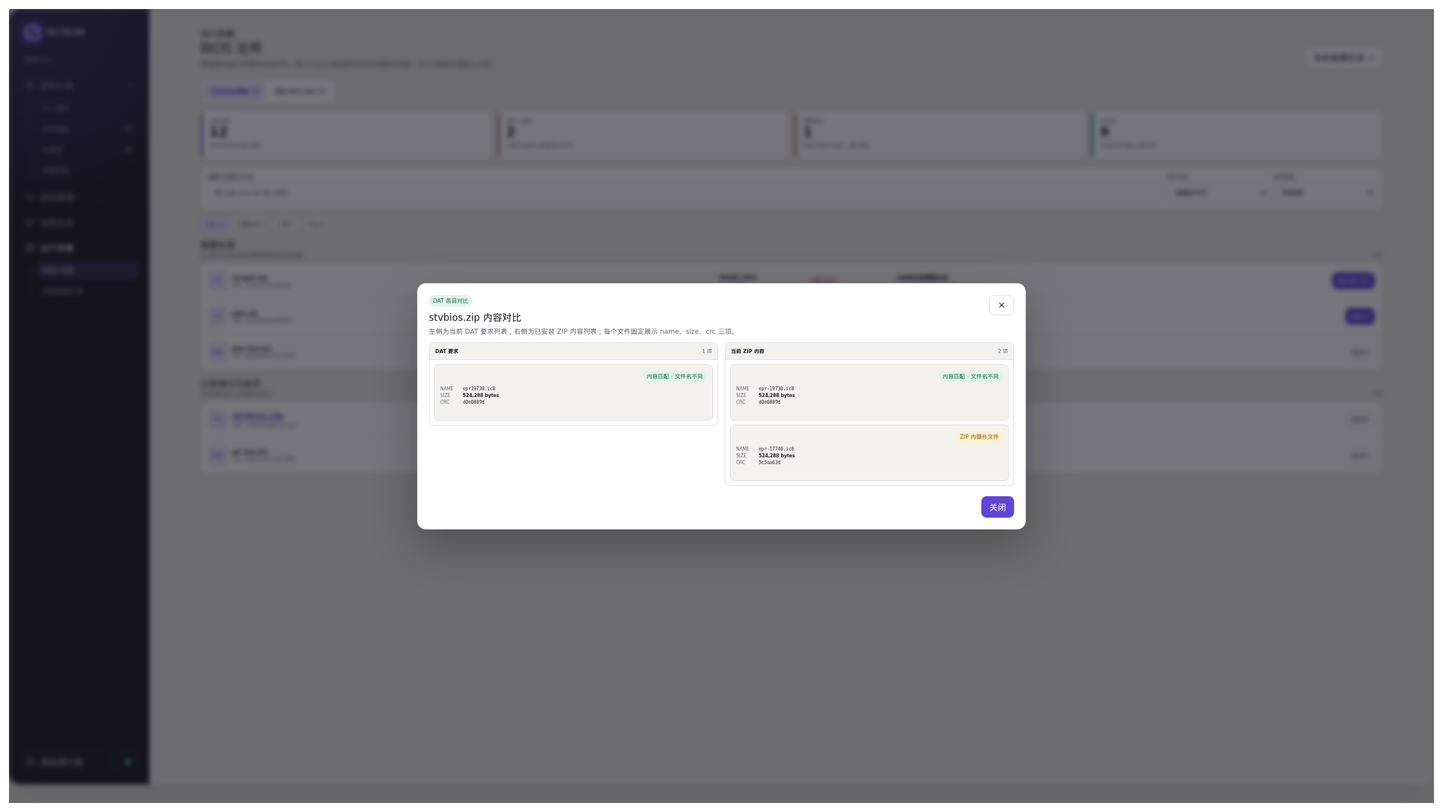
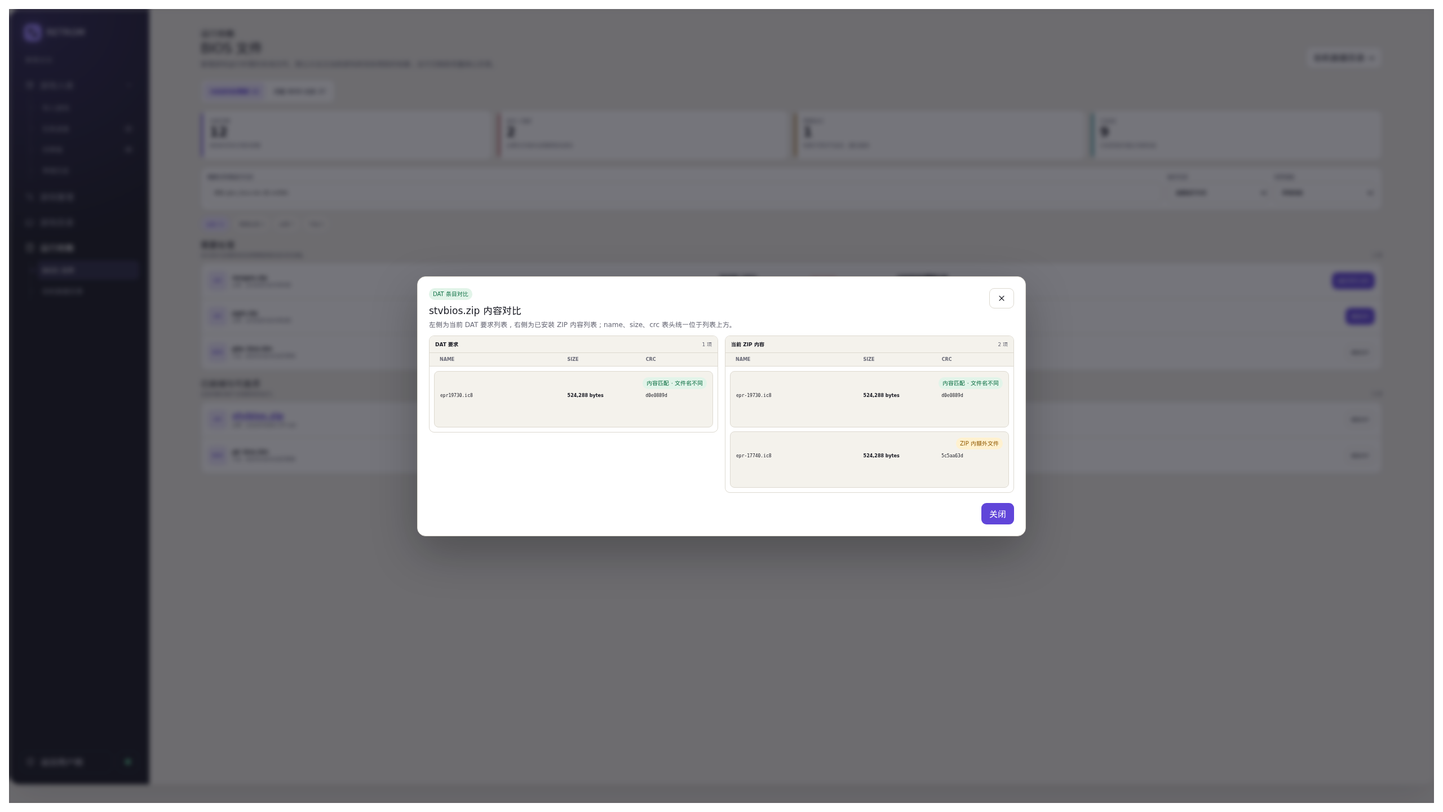
fix: place BIOS comparison headers above rows

diff --git a/docs/design/retrom-ui-review.html b/docs/design/retrom-ui-review.html
@@ -1161,12 +1161,13 @@
     #retrom-ui-review .rt-bios-entry-column { min-width: 0; overflow: hidden; border: 1px solid var(--retrom-line); border-radius: 9px; background: var(--retrom-panel); }
     #retrom-ui-review .rt-bios-entry-column &gt; header { position: sticky; top: 0; z-index: 1; padding: 9px 10px; display: flex; justify-content: space-between; border-bottom: 1px solid var(--retrom-line); background: var(--retrom-panel-raised); font-size: 9px; }
     #retrom-ui-review .rt-bios-entry-column &gt; header span { color: var(--retrom-muted); }
+    #retrom-ui-review .rt-bios-entry-field-head, #retrom-ui-review .rt-bios-entry-facts { grid-template-columns: minmax(0, 1.5fr) minmax(74px, .9fr) minmax(64px, .75fr); }
+    #retrom-ui-review .rt-bios-entry-field-head { margin: 0; padding: 7px 18px; display: grid; gap: 8px; color: var(--retrom-muted); border-bottom: 1px solid var(--retrom-line); background: var(--retrom-panel-raised); list-style: none; font-size: 8px; font-weight: 750; text-transform: uppercase; }
     #retrom-ui-review .rt-bios-entry-list { margin: 0; padding: 8px; display: grid; gap: 7px; list-style: none; }
     #retrom-ui-review .rt-bios-entry-card { min-height: 100px; padding: 10px; display: grid; align-content: start; gap: 7px; border: 1px solid var(--retrom-line); border-radius: 8px; background: var(--retrom-panel-raised); }
     #retrom-ui-review .rt-bios-entry-card &gt; .rt-badge { justify-self: end; }
-    #retrom-ui-review .rt-bios-entry-facts { margin: 0; padding: 0; display: grid; gap: 3px; list-style: none; font-size: 8px; }
-    #retrom-ui-review .rt-bios-entry-facts li { min-width: 0; display: grid; grid-template-columns: 34px minmax(0, 1fr); gap: 6px; }
-    #retrom-ui-review .rt-bios-entry-facts li &gt; span { color: var(--retrom-muted); text-transform: uppercase; }
+    #retrom-ui-review .rt-bios-entry-facts { margin: 0; padding: 0; display: grid; gap: 8px; list-style: none; font-size: 8px; }
+    #retrom-ui-review .rt-bios-entry-facts li { min-width: 0; }
     #retrom-ui-review .rt-bios-entry-facts code { overflow-wrap: anywhere; }
     #retrom-ui-review .rt-runtime-compare { display: grid; grid-template-columns: 1fr 26px 1fr; align-items: center; gap: 7px; }
     #retrom-ui-review .rt-runtime-compare article { padding: 10px; border: 1px solid var(--retrom-line); border-radius: 9px; background: var(--retrom-panel-raised); }
@@ -1931,7 +1932,7 @@
 
   &lt;div class=&quot;rt-dialog-backdrop rt-player-exit-backdrop&quot; data-player-exit-dialog hidden&gt;&lt;section class=&quot;rt-dialog rt-player-exit-dialog&quot; role=&quot;alertdialog&quot; aria-modal=&quot;true&quot; aria-labelledby=&quot;rt-player-exit-title&quot;&gt;&lt;div class=&quot;rt-dialog-head&quot;&gt;&lt;span class=&quot;rt-dialog-mark&quot; aria-hidden=&quot;true&quot;&gt;!&lt;/span&gt;&lt;div&gt;&lt;h2 id=&quot;rt-player-exit-title&quot;&gt;退出游戏？&lt;/h2&gt;&lt;p class=&quot;rt-dialog-copy&quot;&gt;游戏进度已同步，可以安全退出。&lt;/p&gt;&lt;/div&gt;&lt;/div&gt;&lt;div class=&quot;rt-dialog-impact&quot;&gt;退出时会刷新持久进度、结束本次游玩记录，并返回启动游戏前的页面。&lt;/div&gt;&lt;div class=&quot;rt-dialog-actions&quot;&gt;&lt;button type=&quot;button&quot; class=&quot;rt-button&quot; data-cancel-player-exit&gt;取消&lt;/button&gt;&lt;button type=&quot;button&quot; class=&quot;rt-button rt-button-danger&quot; data-confirm-player-exit&gt;退出游戏&lt;/button&gt;&lt;/div&gt;&lt;/section&gt;&lt;/div&gt;
 
-  &lt;div class=&quot;rt-dialog-backdrop&quot; data-bios-entries hidden&gt;&lt;section class=&quot;rt-dialog rt-bios-entry-dialog&quot; role=&quot;alertdialog&quot; aria-modal=&quot;true&quot; aria-labelledby=&quot;rt-bios-entry-title&quot;&gt;&lt;div class=&quot;rt-panel-heading&quot;&gt;&lt;div&gt;&lt;span class=&quot;rt-badge rt-badge-green&quot;&gt;DAT 条目对比&lt;/span&gt;&lt;h2 id=&quot;rt-bios-entry-title&quot; style=&quot;margin-top:7px&quot;&gt;stvbios.zip 内容对比&lt;/h2&gt;&lt;p class=&quot;rt-dialog-copy&quot;&gt;左侧为当前 DAT 要求列表，右侧为已安装 ZIP 内容列表；每个文件固定展示 name、size、crc 三项。&lt;/p&gt;&lt;/div&gt;&lt;button type=&quot;button&quot; class=&quot;rt-button&quot; data-close-bios-entries aria-label=&quot;关闭&quot;&gt;&lt;i data-lucide=&quot;x&quot; aria-hidden=&quot;true&quot;&gt;&lt;/i&gt;&lt;/button&gt;&lt;/div&gt;&lt;div class=&quot;rt-bios-entry-columns&quot;&gt;&lt;section class=&quot;rt-bios-entry-column&quot;&gt;&lt;header&gt;&lt;strong&gt;DAT 要求&lt;/strong&gt;&lt;span&gt;1 项&lt;/span&gt;&lt;/header&gt;&lt;ul class=&quot;rt-bios-entry-list&quot;&gt;&lt;li class=&quot;rt-bios-entry-card&quot;&gt;&lt;span class=&quot;rt-badge rt-badge-green&quot;&gt;内容匹配 · 文件名不同&lt;/span&gt;&lt;ul class=&quot;rt-bios-entry-facts&quot;&gt;&lt;li&gt;&lt;span&gt;name&lt;/span&gt;&lt;code&gt;epr19730.ic8&lt;/code&gt;&lt;/li&gt;&lt;li&gt;&lt;span&gt;size&lt;/span&gt;&lt;strong&gt;524,288 bytes&lt;/strong&gt;&lt;/li&gt;&lt;li&gt;&lt;span&gt;crc&lt;/span&gt;&lt;code&gt;d0e0889d&lt;/code&gt;&lt;/li&gt;&lt;/ul&gt;&lt;/li&gt;&lt;/ul&gt;&lt;/section&gt;&lt;section class=&quot;rt-bios-entry-column&quot;&gt;&lt;header&gt;&lt;strong&gt;当前 ZIP 内容&lt;/strong&gt;&lt;span&gt;2 项&lt;/span&gt;&lt;/header&gt;&lt;ul class=&quot;rt-bios-entry-list&quot;&gt;&lt;li class=&quot;rt-bios-entry-card&quot;&gt;&lt;span class=&quot;rt-badge rt-badge-green&quot;&gt;内容匹配 · 文件名不同&lt;/span&gt;&lt;ul class=&quot;rt-bios-entry-facts&quot;&gt;&lt;li&gt;&lt;span&gt;name&lt;/span&gt;&lt;code&gt;epr-19730.ic8&lt;/code&gt;&lt;/li&gt;&lt;li&gt;&lt;span&gt;size&lt;/span&gt;&lt;strong&gt;524,288 bytes&lt;/strong&gt;&lt;/li&gt;&lt;li&gt;&lt;span&gt;crc&lt;/span&gt;&lt;code&gt;d0e0889d&lt;/code&gt;&lt;/li&gt;&lt;/ul&gt;&lt;/li&gt;&lt;li class=&quot;rt-bios-entry-card&quot;&gt;&lt;span class=&quot;rt-badge rt-badge-amber&quot;&gt;ZIP 内额外文件&lt;/span&gt;&lt;ul class=&quot;rt-bios-entry-facts&quot;&gt;&lt;li&gt;&lt;span&gt;name&lt;/span&gt;&lt;code&gt;epr-17740.ic8&lt;/code&gt;&lt;/li&gt;&lt;li&gt;&lt;span&gt;size&lt;/span&gt;&lt;strong&gt;524,288 bytes&lt;/strong&gt;&lt;/li&gt;&lt;li&gt;&lt;span&gt;crc&lt;/span&gt;&lt;code&gt;5c5aa63d&lt;/code&gt;&lt;/li&gt;&lt;/ul&gt;&lt;/li&gt;&lt;/ul&gt;&lt;/section&gt;&lt;/div&gt;&lt;div class=&quot;rt-dialog-actions&quot;&gt;&lt;button type=&quot;button&quot; class=&quot;rt-button rt-button-primary&quot; data-close-bios-entries&gt;关闭&lt;/button&gt;&lt;/div&gt;&lt;/section&gt;&lt;/div&gt;
+  &lt;div class=&quot;rt-dialog-backdrop&quot; data-bios-entries hidden&gt;&lt;section class=&quot;rt-dialog rt-bios-entry-dialog&quot; role=&quot;alertdialog&quot; aria-modal=&quot;true&quot; aria-labelledby=&quot;rt-bios-entry-title&quot;&gt;&lt;div class=&quot;rt-panel-heading&quot;&gt;&lt;div&gt;&lt;span class=&quot;rt-badge rt-badge-green&quot;&gt;DAT 条目对比&lt;/span&gt;&lt;h2 id=&quot;rt-bios-entry-title&quot; style=&quot;margin-top:7px&quot;&gt;stvbios.zip 内容对比&lt;/h2&gt;&lt;p class=&quot;rt-dialog-copy&quot;&gt;左侧为当前 DAT 要求列表，右侧为已安装 ZIP 内容列表；name、size、crc 表头统一位于列表上方。&lt;/p&gt;&lt;/div&gt;&lt;button type=&quot;button&quot; class=&quot;rt-button&quot; data-close-bios-entries aria-label=&quot;关闭&quot;&gt;&lt;i data-lucide=&quot;x&quot; aria-hidden=&quot;true&quot;&gt;&lt;/i&gt;&lt;/button&gt;&lt;/div&gt;&lt;div class=&quot;rt-bios-entry-columns&quot;&gt;&lt;section class=&quot;rt-bios-entry-column&quot;&gt;&lt;header&gt;&lt;strong&gt;DAT 要求&lt;/strong&gt;&lt;span&gt;1 项&lt;/span&gt;&lt;/header&gt;&lt;ul class=&quot;rt-bios-entry-field-head&quot;&gt;&lt;li&gt;name&lt;/li&gt;&lt;li&gt;size&lt;/li&gt;&lt;li&gt;crc&lt;/li&gt;&lt;/ul&gt;&lt;ul class=&quot;rt-bios-entry-list&quot;&gt;&lt;li class=&quot;rt-bios-entry-card&quot;&gt;&lt;span class=&quot;rt-badge rt-badge-green&quot;&gt;内容匹配 · 文件名不同&lt;/span&gt;&lt;ul class=&quot;rt-bios-entry-facts&quot;&gt;&lt;li&gt;&lt;code&gt;epr19730.ic8&lt;/code&gt;&lt;/li&gt;&lt;li&gt;&lt;strong&gt;524,288 bytes&lt;/strong&gt;&lt;/li&gt;&lt;li&gt;&lt;code&gt;d0e0889d&lt;/code&gt;&lt;/li&gt;&lt;/ul&gt;&lt;/li&gt;&lt;/ul&gt;&lt;/section&gt;&lt;section class=&quot;rt-bios-entry-column&quot;&gt;&lt;header&gt;&lt;strong&gt;当前 ZIP 内容&lt;/strong&gt;&lt;span&gt;2 项&lt;/span&gt;&lt;/header&gt;&lt;ul class=&quot;rt-bios-entry-field-head&quot;&gt;&lt;li&gt;name&lt;/li&gt;&lt;li&gt;size&lt;/li&gt;&lt;li&gt;crc&lt;/li&gt;&lt;/ul&gt;&lt;ul class=&quot;rt-bios-entry-list&quot;&gt;&lt;li class=&quot;rt-bios-entry-card&quot;&gt;&lt;span class=&quot;rt-badge rt-badge-green&quot;&gt;内容匹配 · 文件名不同&lt;/span&gt;&lt;ul class=&quot;rt-bios-entry-facts&quot;&gt;&lt;li&gt;&lt;code&gt;epr-19730.ic8&lt;/code&gt;&lt;/li&gt;&lt;li&gt;&lt;strong&gt;524,288 bytes&lt;/strong&gt;&lt;/li&gt;&lt;li&gt;&lt;code&gt;d0e0889d&lt;/code&gt;&lt;/li&gt;&lt;/ul&gt;&lt;/li&gt;&lt;li class=&quot;rt-bios-entry-card&quot;&gt;&lt;span class=&quot;rt-badge rt-badge-amber&quot;&gt;ZIP 内额外文件&lt;/span&gt;&lt;ul class=&quot;rt-bios-entry-facts&quot;&gt;&lt;li&gt;&lt;code&gt;epr-17740.ic8&lt;/code&gt;&lt;/li&gt;&lt;li&gt;&lt;strong&gt;524,288 bytes&lt;/strong&gt;&lt;/li&gt;&lt;li&gt;&lt;code&gt;5c5aa63d&lt;/code&gt;&lt;/li&gt;&lt;/ul&gt;&lt;/li&gt;&lt;/ul&gt;&lt;/section&gt;&lt;/div&gt;&lt;div class=&quot;rt-dialog-actions&quot;&gt;&lt;button type=&quot;button&quot; class=&quot;rt-button rt-button-primary&quot; data-close-bios-entries&gt;关闭&lt;/button&gt;&lt;/div&gt;&lt;/section&gt;&lt;/div&gt;
 
   &lt;div class=&quot;rt-runtime-drawer-backdrop&quot; data-runtime-drawer-backdrop hidden&gt;&lt;/div&gt;
   &lt;aside class=&quot;rt-runtime-drawer&quot; data-runtime-drawer hidden&gt;&lt;header&gt;&lt;div&gt;&lt;span class=&quot;rt-badge rt-badge-purple&quot;&gt;新候选&lt;/span&gt;&lt;h2&gt;上传街机数据目录&lt;/h2&gt;&lt;p&gt;上传后先安全解析，再查看差异，最后才允许启用。&lt;/p&gt;&lt;/div&gt;&lt;button type=&quot;button&quot; class=&quot;rt-button&quot; data-close-runtime-drawer aria-label=&quot;关闭&quot;&gt;&lt;i data-lucide=&quot;x&quot; aria-hidden=&quot;true&quot;&gt;&lt;/i&gt;&lt;/button&gt;&lt;/header&gt;&lt;div class=&quot;rt-runtime-drawer-body&quot;&gt;&lt;label&gt;目标运行方式&lt;select class=&quot;rt-select&quot;&gt;&lt;option&gt;FinalBurn Neo · bundle 4.2.3&lt;/option&gt;&lt;option&gt;MAME 2003 · bundle 4.2.1&lt;/option&gt;&lt;option&gt;MAME 2003 Plus · bundle 4.2.3&lt;/option&gt;&lt;/select&gt;&lt;/label&gt;&lt;label&gt;DAT / XML 文件&lt;input class=&quot;rt-input&quot; placeholder=&quot;尚未选择文件&quot; readonly&gt;&lt;/label&gt;&lt;button type=&quot;button&quot; class=&quot;rt-button&quot;&gt;选择 DAT 或 XML 文件&lt;/button&gt;&lt;ol class=&quot;rt-runtime-upload-flow&quot;&gt;&lt;li&gt;&lt;span&gt;1&lt;/span&gt;&lt;strong&gt;上传&lt;/strong&gt;&lt;/li&gt;&lt;li&gt;&lt;span&gt;2&lt;/span&gt;&lt;strong&gt;解析&lt;/strong&gt;&lt;/li&gt;&lt;li&gt;&lt;span&gt;3&lt;/span&gt;&lt;strong&gt;查看差异&lt;/strong&gt;&lt;/li&gt;&lt;li&gt;&lt;span&gt;4&lt;/span&gt;&lt;strong&gt;启用&lt;/strong&gt;&lt;/li&gt;&lt;/ol&gt;&lt;/div&gt;&lt;footer&gt;&lt;button type=&quot;button&quot; class=&quot;rt-button&quot; data-close-runtime-drawer&gt;取消&lt;/button&gt;&lt;button type=&quot;button&quot; class=&quot;rt-button rt-button-primary&quot; disabled&gt;开始上传&lt;/button&gt;&lt;/footer&gt;&lt;/aside&gt;

diff --git a/docs/design/retrom-ui-review.fragment.html b/docs/design/retrom-ui-review.fragment.html
@@ -1138,12 +1138,13 @@
     #retrom-ui-review .rt-bios-entry-column { min-width: 0; overflow: hidden; border: 1px solid var(--retrom-line); border-radius: 9px; background: var(--retrom-panel); }
     #retrom-ui-review .rt-bios-entry-column > header { position: sticky; top: 0; z-index: 1; padding: 9px 10px; display: flex; justify-content: space-between; border-bottom: 1px solid var(--retrom-line); background: var(--retrom-panel-raised); font-size: 9px; }
     #retrom-ui-review .rt-bios-entry-column > header span { color: var(--retrom-muted); }
+    #retrom-ui-review .rt-bios-entry-field-head, #retrom-ui-review .rt-bios-entry-facts { grid-template-columns: minmax(0, 1.5fr) minmax(74px, .9fr) minmax(64px, .75fr); }
+    #retrom-ui-review .rt-bios-entry-field-head { margin: 0; padding: 7px 18px; display: grid; gap: 8px; color: var(--retrom-muted); border-bottom: 1px solid var(--retrom-line); background: var(--retrom-panel-raised); list-style: none; font-size: 8px; font-weight: 750; text-transform: uppercase; }
     #retrom-ui-review .rt-bios-entry-list { margin: 0; padding: 8px; display: grid; gap: 7px; list-style: none; }
     #retrom-ui-review .rt-bios-entry-card { min-height: 100px; padding: 10px; display: grid; align-content: start; gap: 7px; border: 1px solid var(--retrom-line); border-radius: 8px; background: var(--retrom-panel-raised); }
     #retrom-ui-review .rt-bios-entry-card > .rt-badge { justify-self: end; }
-    #retrom-ui-review .rt-bios-entry-facts { margin: 0; padding: 0; display: grid; gap: 3px; list-style: none; font-size: 8px; }
-    #retrom-ui-review .rt-bios-entry-facts li { min-width: 0; display: grid; grid-template-columns: 34px minmax(0, 1fr); gap: 6px; }
-    #retrom-ui-review .rt-bios-entry-facts li > span { color: var(--retrom-muted); text-transform: uppercase; }
+    #retrom-ui-review .rt-bios-entry-facts { margin: 0; padding: 0; display: grid; gap: 8px; list-style: none; font-size: 8px; }
+    #retrom-ui-review .rt-bios-entry-facts li { min-width: 0; }
     #retrom-ui-review .rt-bios-entry-facts code { overflow-wrap: anywhere; }
     #retrom-ui-review .rt-runtime-compare { display: grid; grid-template-columns: 1fr 26px 1fr; align-items: center; gap: 7px; }
     #retrom-ui-review .rt-runtime-compare article { padding: 10px; border: 1px solid var(--retrom-line); border-radius: 9px; background: var(--retrom-panel-raised); }
@@ -1908,7 +1909,7 @@
 
   <div class="rt-dialog-backdrop rt-player-exit-backdrop" data-player-exit-dialog hidden><section class="rt-dialog rt-player-exit-dialog" role="alertdialog" aria-modal="true" aria-labelledby="rt-player-exit-title"><div class="rt-dialog-head"><span class="rt-dialog-mark" aria-hidden="true">!</span><div><h2 id="rt-player-exit-title">退出游戏？</h2><p class="rt-dialog-copy">游戏进度已同步，可以安全退出。</p></div></div><div class="rt-dialog-impact">退出时会刷新持久进度、结束本次游玩记录，并返回启动游戏前的页面。</div><div class="rt-dialog-actions"><button type="button" class="rt-button" data-cancel-player-exit>取消</button><button type="button" class="rt-button rt-button-danger" data-confirm-player-exit>退出游戏</button></div></section></div>
 
-  <div class="rt-dialog-backdrop" data-bios-entries hidden><section class="rt-dialog rt-bios-entry-dialog" role="alertdialog" aria-modal="true" aria-labelledby="rt-bios-entry-title"><div class="rt-panel-heading"><div><span class="rt-badge rt-badge-green">DAT 条目对比</span><h2 id="rt-bios-entry-title" style="margin-top:7px">stvbios.zip 内容对比</h2><p class="rt-dialog-copy">左侧为当前 DAT 要求列表，右侧为已安装 ZIP 内容列表；每个文件固定展示 name、size、crc 三项。</p></div><button type="button" class="rt-button" data-close-bios-entries aria-label="关闭"><i data-lucide="x" aria-hidden="true"></i></button></div><div class="rt-bios-entry-columns"><section class="rt-bios-entry-column"><header><strong>DAT 要求</strong><span>1 项</span></header><ul class="rt-bios-entry-list"><li class="rt-bios-entry-card"><span class="rt-badge rt-badge-green">内容匹配 · 文件名不同</span><ul class="rt-bios-entry-facts"><li><span>name</span><code>epr19730.ic8</code></li><li><span>size</span><strong>524,288 bytes</strong></li><li><span>crc</span><code>d0e0889d</code></li></ul></li></ul></section><section class="rt-bios-entry-column"><header><strong>当前 ZIP 内容</strong><span>2 项</span></header><ul class="rt-bios-entry-list"><li class="rt-bios-entry-card"><span class="rt-badge rt-badge-green">内容匹配 · 文件名不同</span><ul class="rt-bios-entry-facts"><li><span>name</span><code>epr-19730.ic8</code></li><li><span>size</span><strong>524,288 bytes</strong></li><li><span>crc</span><code>d0e0889d</code></li></ul></li><li class="rt-bios-entry-card"><span class="rt-badge rt-badge-amber">ZIP 内额外文件</span><ul class="rt-bios-entry-facts"><li><span>name</span><code>epr-17740.ic8</code></li><li><span>size</span><strong>524,288 bytes</strong></li><li><span>crc</span><code>5c5aa63d</code></li></ul></li></ul></section></div><div class="rt-dialog-actions"><button type="button" class="rt-button rt-button-primary" data-close-bios-entries>关闭</button></div></section></div>
+  <div class="rt-dialog-backdrop" data-bios-entries hidden><section class="rt-dialog rt-bios-entry-dialog" role="alertdialog" aria-modal="true" aria-labelledby="rt-bios-entry-title"><div class="rt-panel-heading"><div><span class="rt-badge rt-badge-green">DAT 条目对比</span><h2 id="rt-bios-entry-title" style="margin-top:7px">stvbios.zip 内容对比</h2><p class="rt-dialog-copy">左侧为当前 DAT 要求列表，右侧为已安装 ZIP 内容列表；name、size、crc 表头统一位于列表上方。</p></div><button type="button" class="rt-button" data-close-bios-entries aria-label="关闭"><i data-lucide="x" aria-hidden="true"></i></button></div><div class="rt-bios-entry-columns"><section class="rt-bios-entry-column"><header><strong>DAT 要求</strong><span>1 项</span></header><ul class="rt-bios-entry-field-head"><li>name</li><li>size</li><li>crc</li></ul><ul class="rt-bios-entry-list"><li class="rt-bios-entry-card"><span class="rt-badge rt-badge-green">内容匹配 · 文件名不同</span><ul class="rt-bios-entry-facts"><li><code>epr19730.ic8</code></li><li><strong>524,288 bytes</strong></li><li><code>d0e0889d</code></li></ul></li></ul></section><section class="rt-bios-entry-column"><header><strong>当前 ZIP 内容</strong><span>2 项</span></header><ul class="rt-bios-entry-field-head"><li>name</li><li>size</li><li>crc</li></ul><ul class="rt-bios-entry-list"><li class="rt-bios-entry-card"><span class="rt-badge rt-badge-green">内容匹配 · 文件名不同</span><ul class="rt-bios-entry-facts"><li><code>epr-19730.ic8</code></li><li><strong>524,288 bytes</strong></li><li><code>d0e0889d</code></li></ul></li><li class="rt-bios-entry-card"><span class="rt-badge rt-badge-amber">ZIP 内额外文件</span><ul class="rt-bios-entry-facts"><li><code>epr-17740.ic8</code></li><li><strong>524,288 bytes</strong></li><li><code>5c5aa63d</code></li></ul></li></ul></section></div><div class="rt-dialog-actions"><button type="button" class="rt-button rt-button-primary" data-close-bios-entries>关闭</button></div></section></div>
 
   <div class="rt-runtime-drawer-backdrop" data-runtime-drawer-backdrop hidden></div>
   <aside class="rt-runtime-drawer" data-runtime-drawer hidden><header><div><span class="rt-badge rt-badge-purple">新候选</span><h2>上传街机数据目录</h2><p>上传后先安全解析，再查看差异，最后才允许启用。</p></div><button type="button" class="rt-button" data-close-runtime-drawer aria-label="关闭"><i data-lucide="x" aria-hidden="true"></i></button></header><div class="rt-runtime-drawer-body"><label>目标运行方式<select class="rt-select"><option>FinalBurn Neo · bundle 4.2.3</option><option>MAME 2003 · bundle 4.2.1</option><option>MAME 2003 Plus · bundle 4.2.3</option></select></label><label>DAT / XML 文件<input class="rt-input" placeholder="尚未选择文件" readonly></label><button type="button" class="rt-button">选择 DAT 或 XML 文件</button><ol class="rt-runtime-upload-flow"><li><span>1</span><strong>上传</strong></li><li><span>2</span><strong>解析</strong></li><li><span>3</span><strong>查看差异</strong></li><li><span>4</span><strong>启用</strong></li></ol></div><footer><button type="button" class="rt-button" data-close-runtime-drawer>取消</button><button type="button" class="rt-button rt-button-primary" disabled>开始上传</button></footer></aside>

diff --git a/web/app/globals.css b/web/app/globals.css
@@ -1329,14 +1329,15 @@ td select, td input:not([type="checkbox"]), td button { min-height: 42px; }
 .bios-entry-column > header { position: sticky; z-index: 1; top: 0; padding: 10px 12px; display: flex; align-items: center; justify-content: space-between; gap: 12px; border-bottom: 1px solid var(--line); background: var(--surface-raised); }
 .bios-entry-column > header strong { font-size: 12px; }
 .bios-entry-column > header span { color: var(--muted); font-size: 10px; }
+.bios-entry-field-head, .bios-entry-facts { grid-template-columns: minmax(0, 1.5fr) minmax(105px, .9fr) minmax(84px, .75fr); }
+.bios-entry-field-head { margin: 0; padding: 8px 20px; display: grid; gap: 12px; color: var(--muted); border-bottom: 1px solid var(--line); background: #fbfbfc; font-size: 10px; font-weight: 750; list-style: none; text-transform: uppercase; }
 .bios-entry-list { margin: 0; padding: 9px; display: grid; gap: 8px; list-style: none; }
 .bios-entry-card { min-width: 0; min-height: 112px; padding: 10px; display: grid; align-content: start; gap: 8px; border: 1px solid var(--line); border-radius: 9px; background: var(--surface-raised); }
 .bios-entry-card-head { min-height: 22px; display: flex; align-items: flex-start; justify-content: flex-end; }
 .bios-entry-card-head > .status-badge { max-width: 210px; white-space: normal; text-align: right; }
 .bios-entry-card.is-mismatched, .bios-entry-card.is-missing { border-color: #efc2c6; background: #fffafa; }
-.bios-entry-facts { min-width: 0; margin: 0; padding: 0; display: grid; gap: 5px; list-style: none; }
-.bios-entry-facts > li { min-width: 0; display: grid; grid-template-columns: 42px minmax(0, 1fr); gap: 7px; }
-.bios-entry-facts > li > span { color: var(--muted); font-size: 10px; text-transform: uppercase; }
+.bios-entry-facts { min-width: 0; margin: 0; padding: 0; display: grid; gap: 12px; align-items: start; list-style: none; }
+.bios-entry-facts > li { min-width: 0; }
 .bios-entry-facts > li > strong, .bios-entry-facts > li > code { min-width: 0; overflow-wrap: anywhere; font-size: 11px; font-weight: 400; }
 .bios-entry-facts code { font-size: 10px; }
 .bios-entry-message { min-height: 100px; display: grid; place-items: center; color: var(--muted); }

diff --git a/web/features/bios/bios-manager.tsx b/web/features/bios/bios-manager.tsx
@@ -205,7 +205,7 @@ export function BIOSManager({ libraryItems, catalogItems, initialScope = "REQUIR
     <ConfirmDialog
       open={archiveDialog !== null}
       title={`${archiveDialog?.item.logicalName ?? "BIOS"} 内容对比`}
-      description="左侧为当前 DAT 要求，右侧为已安装 ZIP 内容；每个文件固定展示 name、size、crc 三项。额外文件不阻断启动。"
+      description="左侧为当前 DAT 要求，右侧为已安装 ZIP 内容；name、size、crc 表头统一位于列表上方。额外文件不阻断启动。"
       confirmLabel="关闭"
       hideCancel
       wide
@@ -234,6 +234,7 @@ function ArchiveEntryList({ title, ariaLabel, entries }: {
 }) {
   return <section className="bios-entry-column">
     <header><strong>{title}</strong><span>{entries.length} 项</span></header>
+    <ul className="bios-entry-field-head" aria-label={`${title}字段表头`}><li>name</li><li>size</li><li>crc</li></ul>
     <ul className="bios-entry-list" aria-label={ariaLabel}>{entries.map((entry, index) => <li className={`bios-entry-card is-${entry.status.toLowerCase()}`} key={`${entry.facts.name}-${index}`}>
       <div className="bios-entry-card-head"><StatusBadge tone={entry.status === "MATCHED" || entry.status === "ALIASED" ? "good" : entry.status === "MISMATCHED" || entry.status === "EXTRA" ? "warn" : "bad"}>{entryStatusLabels[entry.status]}</StatusBadge></div>
       <ArchiveFacts facts={entry.facts} />
@@ -243,8 +244,8 @@ function ArchiveEntryList({ title, ariaLabel, entries }: {
 
 function ArchiveFacts({ facts }: { facts: ArchiveEntryFacts }) {
   return <ul className="bios-entry-facts" aria-label={`${facts.name} 文件信息`}>
-    <li><span>name</span><code>{facts.name}</code></li>
-    <li><span>size</span><strong>{facts.sizeBytes.toLocaleString("zh-CN")} bytes</strong></li>
-    <li><span>crc</span><code>{facts.crc32 || "—"}</code></li>
+    <li><code>{facts.name}</code></li>
+    <li><strong>{facts.sizeBytes.toLocaleString("zh-CN")} bytes</strong></li>
+    <li><code>{facts.crc32 || "—"}</code></li>
   </ul>;
 }

diff --git a/web/features/bios/bios-manager.test.tsx b/web/features/bios/bios-manager.test.tsx
@@ -85,11 +85,13 @@ describe("BIOSManager", () => {
     const actualList = within(dialog).getByRole("list", { name: "当前 ZIP 内容列表" });
     expect(expectedList.querySelectorAll(":scope > li")).toHaveLength(2);
     expect(actualList.querySelectorAll(":scope > li")).toHaveLength(2);
+    const expectedHeader = within(dialog).getByRole("list", { name: "DAT 要求字段表头" });
+    expect(within(expectedHeader).getAllByRole("listitem")).toHaveLength(3);
+    expect(within(expectedHeader).getAllByRole("listitem").map((field) => field.textContent)).toEqual(["name", "size", "crc"]);
     const expectedFacts = within(expectedList).getByRole("list", { name: "epr19730.ic8 文件信息" });
     expect(within(expectedFacts).getAllByRole("listitem")).toHaveLength(3);
-    expect(within(expectedFacts).getByText("name")).toBeVisible();
-    expect(within(expectedFacts).getByText("size")).toBeVisible();
-    expect(within(expectedFacts).getByText("crc")).toBeVisible();
+    expect(within(expectedFacts).queryByText("name")).not.toBeInTheDocument();
+    expect(within(expectedFacts).getByText("524,288 bytes")).toBeVisible();
     expect(within(expectedList).getByText("epr19730.ic8")).toBeVisible();
     expect(within(expectedList).queryByText("readme.txt")).not.toBeInTheDocument();
     expect(within(actualList).getByText("epr-19730.ic8")).toBeVisible();

diff --git a/docs/ui-specification.md b/docs/ui-specification.md
@@ -325,7 +325,7 @@
 
 ### 7.5 BIOS 与 DAT
 
-BIOS 文件页默认展示当前游戏库实际所需项，并可在页面内无刷新切换完整 BIOS 目录。页首固定显示当前范围、缺失/阻断、需要核对和已就绪四项摘要；关键字、运行方式和状态筛选以及“需要处理/必需/可选”快速筛选只更新下方结果，不插入推动内容的标签。列表先展示会阻断或需要核对的项目，再展示已就绪与可选项；当前接口不能证明的“影响 N 款游戏”不得用示例数字冒充，改用真实的当前游戏库引用、阻断和可选语义。STATIC 文件的期望/当前 MD5 直接展示，`HASH_WARNING` 明确说明仍可启动。已安装的 Arcade `DAT_MACHINE` ZIP 把文件名显示为可聚焦按钮；点击打开宽对话框，左侧为该 Requirement 锁定 DAT 版本要求的完整面板，右侧为安装时已安全扫描并落库的 ZIP 实际内容面板，不增加居中的第三栏。两侧各自以文件列表展示；每个文件条目内部固定为仅含 `name`、`size`、`crc` 的三行列表，并直接标识匹配、内容匹配但改名、校验不一致、缺失或额外文件。两栏共享纵向滚动位置以便目视比对。HTTP 读取不重新解压用户内容。
+BIOS 文件页默认展示当前游戏库实际所需项，并可在页面内无刷新切换完整 BIOS 目录。页首固定显示当前范围、缺失/阻断、需要核对和已就绪四项摘要；关键字、运行方式和状态筛选以及“需要处理/必需/可选”快速筛选只更新下方结果，不插入推动内容的标签。列表先展示会阻断或需要核对的项目，再展示已就绪与可选项；当前接口不能证明的“影响 N 款游戏”不得用示例数字冒充，改用真实的当前游戏库引用、阻断和可选语义。STATIC 文件的期望/当前 MD5 直接展示，`HASH_WARNING` 明确说明仍可启动。已安装的 Arcade `DAT_MACHINE` ZIP 把文件名显示为可聚焦按钮；点击打开宽对话框，左侧为该 Requirement 锁定 DAT 版本要求的完整面板，右侧为安装时已安全扫描并落库的 ZIP 实际内容面板，不增加居中的第三栏。两侧各自以文件列表展示；`name`、`size`、`crc` 是位于列表上方的横向三列表头，每个文件在下方占一行并按相同列序展示对应值，字段名不得重复放到每行左侧。每行直接标识匹配、内容匹配但改名、校验不一致、缺失或额外文件。两栏共享纵向滚动位置以便目视比对。HTTP 读取不重新解压用户内容。
 
 街机数据目录页把每个 Arcade Core 当前实际启用版本放在首屏卡片中，真实展示来源、EmulatorJS/bundle 版本、machine/BIOS 数、匹配状态和启用时间；候选与历史版本另行列表。上传入口使用右侧 Drawer，流程固定为“上传 → 解析 → 后台差异比对 → 查看差异 → 启用”，未选择文件时开始按钮禁用，Drawer 支持 Escape、遮罩和显式取消关闭。解析候选必须显示待解析/解析中/失败/已取消，差异阶段必须显示尚未生成/排队中/比对中/可以启用/已失效/比对失败等明确文本状态。排队和运行时用禁用的“差异比对中…”替代查看/启用；失败或因同 CoreArtifact 另一 DAT 启用而失效时提供“重新生成差异”，无需重新上传。运行中的用户 DAT 可请求取消解析，已取消候选只提供删除与重新上传，不显示“重试”造成旧解析任务复活。
 

diff --git a/docs/project-acceptance.md b/docs/project-acceptance.md
@@ -505,7 +505,7 @@ make acceptance-case CASE=<case-id>
 - 上限：120 秒。
 - 执行：`make acceptance-case CASE=ACC-BIOS-001`。
 - 流程：上传 fixtures 中正确 `disksys.rom`，再上传临时生成的错误内容 `gba_bios.bin`，最后用 fixtures 中正确 `gba_bios.bin` 替换当前安装。对一个固定 Arcade Requirement 再分别上传“必需 entry 名齐全但一项 bytes/hash 不同”和“完全缺少一个必需 entry”的两个小型 ZIP，再为 ZIP 添加一个 DAT 未要求的文件。每次安装后点击 Arcade BIOS 文件名打开条目对比。
-- 通过标准：正确文件显示 installed/matched；错误 hash 文件允许保存并明确显示期望/实际 hash Warning，不伪装成 matched，也不因 hash 不同强制拒绝上传；正确替换后活动安装变为 matched，旧 Blob/安装按引用规则保留而非原地改写。Arcade entry 名齐全但 size/hash 不同的 installation 为 active/HASH_WARNING，可装入 Launch bundle且不阻断；完全缺必需 entry 的 installation 可保留为 active/MISSING_ENTRY 供修复但 Launch 阻断；损坏/不安全 ZIP 为 INVALID 且不能 active。弹窗仅使用左右两栏面板，两侧各自为文件列表，每个文件条目内部精确包含 `name`、`size`、`crc` 三个列表项且值和安装时校验一致；各项正确区分内容别名、不匹配、缺失和额外文件，不把非默认 BIOS set 误列为必需项。
+- 通过标准：正确文件显示 installed/matched；错误 hash 文件允许保存并明确显示期望/实际 hash Warning，不伪装成 matched，也不因 hash 不同强制拒绝上传；正确替换后活动安装变为 matched，旧 Blob/安装按引用规则保留而非原地改写。Arcade entry 名齐全但 size/hash 不同的 installation 为 active/HASH_WARNING，可装入 Launch bundle且不阻断；完全缺必需 entry 的 installation 可保留为 active/MISSING_ENTRY 供修复但 Launch 阻断；损坏/不安全 ZIP 为 INVALID 且不能 active。弹窗仅使用左右两栏面板，两侧各自为文件列表；列表顶部横向表头精确为 `name`、`size`、`crc`，每个文件在下方占一行并包含同序三个值，字段名不在文件行左侧重复。各值和安装时校验一致，各项正确区分内容别名、不匹配、缺失和额外文件，不把非默认 BIOS set 误列为必需项。
 - 证据：三次上传响应、实际/期望 hash、安装 revision、BIOS 状态与 UI 截图。
 
 ### ACC-BIOS-002：必需、可选与 Full Non-Merged
